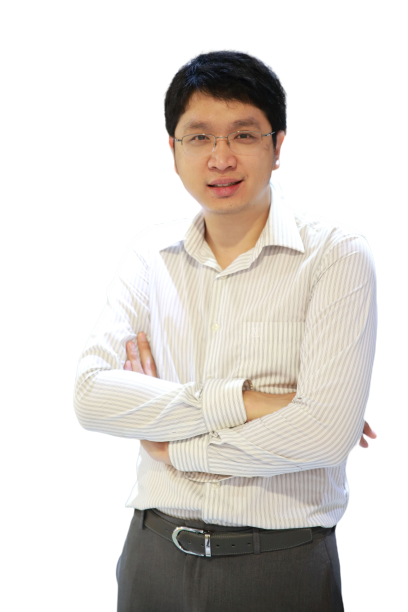
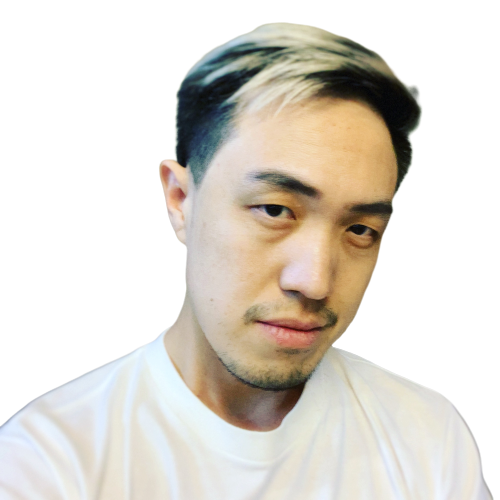
👌 Final Guru content

diff --git a/components/sections/Guru.vue b/components/sections/Guru.vue
@@ -3,7 +3,7 @@
     <SectionHead title="Guru" align="left" style="height: 45px;" />
     <Guru :standalone="true">
       <GuruPic :standalone="true">
-        <Picture :fileName="`guru/${currentGuru+1}`" />
+        <Picture :fileName="`guru/${gurus[currentGuru].img}`" />
       </GuruPic>
       <h3>{{ gurus[currentGuru].name }}</h3>
       <p v-html="gurus[currentGuru].role" />
@@ -11,7 +11,7 @@
     <Gurus>
       <Guru v-for="(g, idx) in gurus" :key="`guru-${idx}`">
         <GuruPic :class="{'active': idx === currentGuru}" @click="selectGuru(idx)">
-          <Picture :fileName="`guru/${idx+1}`" :alt="g.name" />
+          <Picture :fileName="`guru/${g.img}`" :alt="g.name" />
         </GuruPic>
         <h3>{{ g.name }}</h3>
         <p v-html="g.role" />
@@ -40,6 +40,7 @@ const Gurus = styled.div`
 
   @media screen and (max-width:960px) {
     display: block;
+    white-space: nowrap;
     overflow: hidden;
     overflow-x: auto;
     text-align: left;
@@ -65,6 +66,7 @@ const Guru = styled('div', dispProp)`
     display: inline-block;
     margin: 5px;
   }` : `display: none;
+  min-height: 325px;
   @media screen and (max-width:960px) {
     display: block;
     transition: all .3s;
@@ -128,9 +130,13 @@ export default {
     return {
       currentGuru: 0,
       gurus: [
-        { name: 'วโรรส โรจนะ (โน้ต1)', role: `CEO Dek-D Interactive Co., LTD.<br>นายกสมาคมผู้ดูแลเว็บไทย` },
-        { name: 'วโรรส โรจนะ (โน้ต2)', role: `CEO Dek-D Interactive Co., LTD.<br>นายกสมาคมผู้ดูแลเว็บไทย` },
-        { name: 'วโรรส โรจนะ (โน้ต3)', role: `CEO Dek-D Interactive Co., LTD.<br>นายกสมาคมผู้ดูแลเว็บไทย` }
+        { name: 'วโรรส โรจนะ (โน้ต)', role: `CEO Dek-D Interactive Co., LTD.<br>นายกสมาคมผู้ดูแลเว็บไทย`, img: 1 },
+        { name: 'เมธปริยา คำนวนวุฒิ (ว่าน)', role: `Head of Marketing Lnw co., Ltd.`, img: 2 },
+        { name: 'เจริญ ลักษณ์เลิศกุล (เจ)', role: `Associate Director - Strategic planning หน่วยงาน Online Station (True Visions Group Co., Ltd.)`, img: 3 },
+        { name: 'คนที่หนึ่ง แสงหิรัญ (หนึ่ง)', role: `อาจารย์ประจำภาควิชาสาขาการออกแบบนิเทศศิลป์ คณะนิเทศศาสตร์ มหาวิทยาลัยอัสสัมชัญ`, img: 5 },
+        { name: 'ณปสก สันติสุนทรกูล (ปอล)', role: `COO, Dek-D Intertactive Co.,Ltd.`, img: 6 },
+        { name: 'อินทนนท์ ปัญญาโสภา (เบนซ์)', role: `ผู้ก่อตั้งเว็บไซต์ Grappik`, img: 7 },
+        { name: 'ขจร เจียรนัยพานิชย์ (เอ็ม)', role: `Executive Editor - MangoZero.com The Zero Publishing`, img: 8 }
       ]
     }
   },
